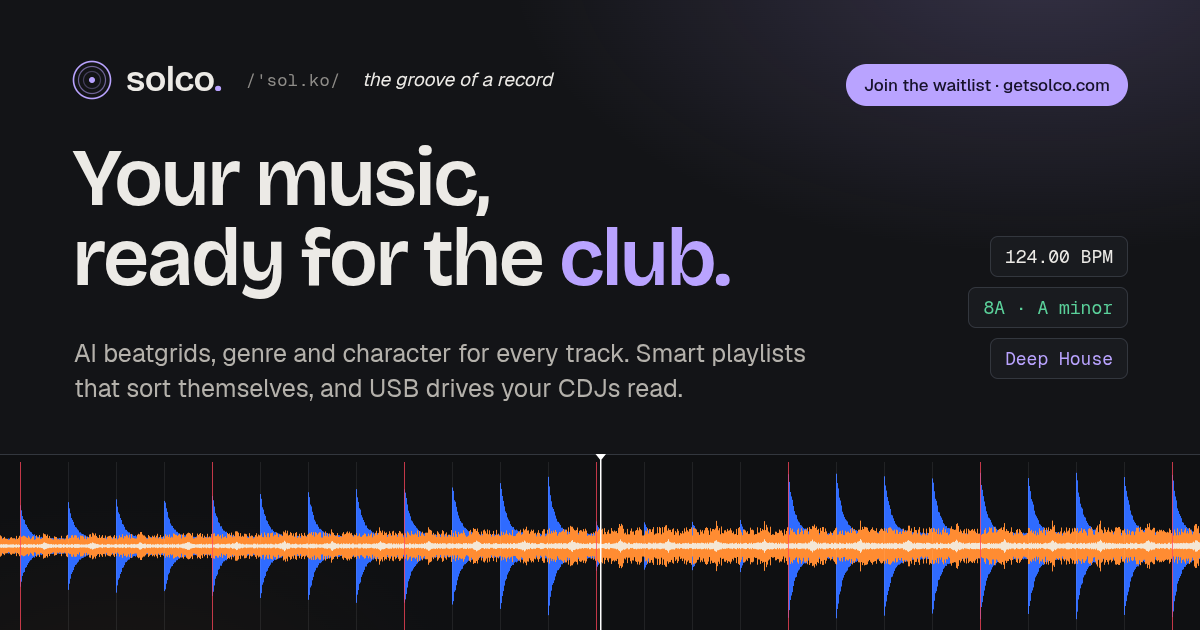
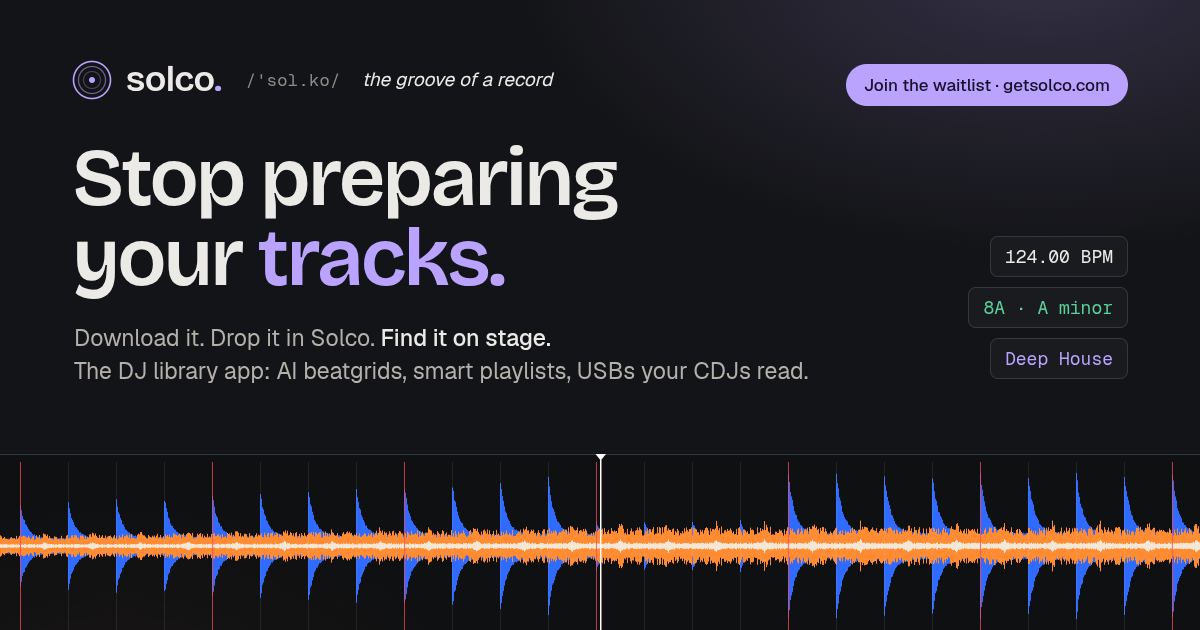
Share image leads with Stop preparing your tracks, like the page

Changed region(s): [[0.0617, 0.2111, 0.6167, 0.4825], [0.0617, 0.5127, 0.6783, 0.6333]]

diff --git a/og/og.html b/og/og.html
@@ -27,7 +27,8 @@
   .say i { color: var(--text); font-style: italic; font-family: Geist; font-size: 19px; letter-spacing: 0; }
   h1 { position: absolute; left: 72px; top: 138px; font-family: Bricolage; font-weight: 400; font-size: 82px; line-height: 0.98; letter-spacing: -0.035em; }
   h1 em { font-style: normal; color: var(--accent); }
-  .sub { position: absolute; left: 74px; top: 336px; width: 760px; font-size: 25px; line-height: 1.38; color: #b4b1ab; }
+  .sub { position: absolute; left: 74px; top: 322px; width: 880px; font-size: 23px; line-height: 1.42; color: #b4b1ab; }
+  .sub b { color: var(--text); font-weight: 500; }
   .deck { position: absolute; left: 0; right: 0; bottom: 0; height: 176px; border-top: 1px solid var(--line); background: rgba(12, 13, 15, 0.6); }
   canvas { position: absolute; left: 0; bottom: 0; width: 1200px; height: 176px; }
   .readouts { position: absolute; right: 72px; top: 236px; display: flex; flex-direction: column; align-items: flex-end; gap: 10px; }
@@ -52,8 +53,8 @@
   </div>
   <div class="cta">Join the waitlist · getsolco.com</div>
 
-  <h1>Your music,<br>ready for the <em>club.</em></h1>
-  <p class="sub">AI beatgrids, genre and character for every track. Smart playlists that sort themselves, and USB drives your CDJs read.</p>
+  <h1>Stop preparing<br>your <em>tracks.</em></h1>
+  <p class="sub">Download it. Drop it in Solco. <b>Find it on stage.</b><br>The DJ library app: AI beatgrids, smart playlists, USBs your CDJs read.</p>
 
   <div class="readouts">
     <span class="chip">124.00 BPM</span>

diff --git a/site/index.html b/site/index.html
@@ -21,7 +21,7 @@
 <meta property="og:image" content="https://getsolco.com/og.png">
 <meta property="og:image:width" content="1200">
 <meta property="og:image:height" content="630">
-<meta property="og:image:alt" content="Solco. Your music, ready for the club. A blue and orange waveform with its beatgrid, 124.00 BPM, 8A A minor, Deep House.">
+<meta property="og:image:alt" content="Solco. Stop preparing your tracks. Download it, drop it in Solco, find it on stage. A blue and orange waveform with its beatgrid, 124.00 BPM, 8A A minor, Deep House.">
 <meta name="twitter:card" content="summary_large_image">
 <meta name="twitter:title" content="Solco: stop preparing your tracks.">
 <meta name="twitter:description" content="The DJ library app that grids, keys, sorts and tags every download, then writes the USB your CDJs read. No rekordbox needed.">
